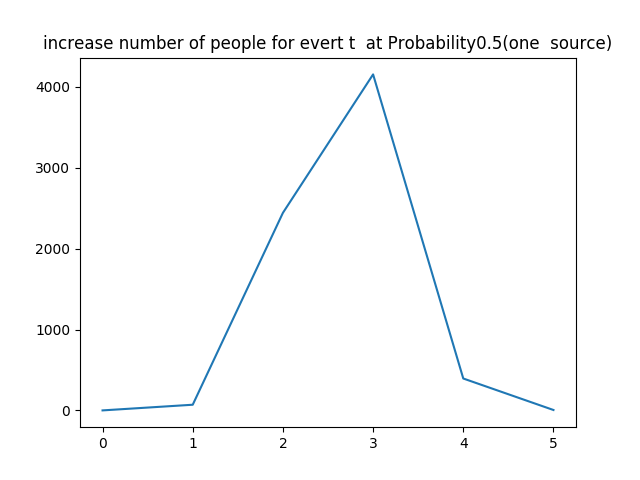
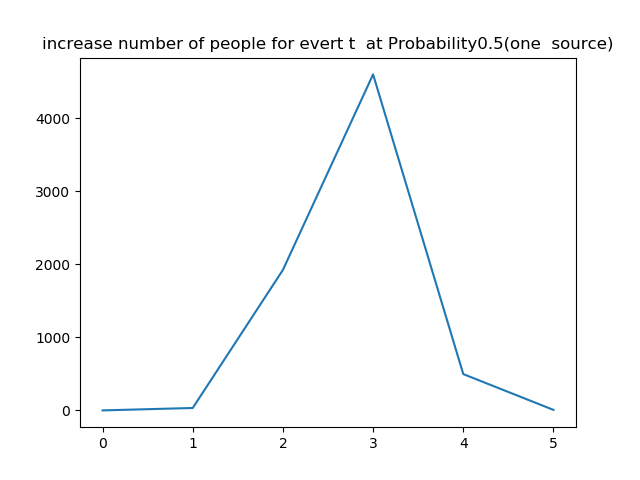
tu

diff --git a/jarden_center/main_code/single-multiple-source/change_world/Conditional_experiment/Propagation_subgraph/many_methods/Use_uninfected_node.py b/jarden_center/main_code/single-multiple-source/change_world/Conditional_experiment/Propagation_subgraph/many_methods/Use_uninfected_node.py
@@ -24,14 +24,97 @@ class Satisfaction:
     def __init__(self):
         pass
 
+    import copy
+
+    '''
+    用队列重写SI传播过程，propagation会传播并且还会
+
+    传播方案2：从源点开始往外面传播，按照队列传播形式。每一个时间刻度，每次所有感染的点都试图感染身边的点。而不是一层一层来
+    '''
+
+    def propagation1(self,G, SourceList, number=1):
+
+        progration_node_list =[ ]
+        progration_edge_list = [ ]
+        G_temp = nx.Graph()
+        G_temp = copy.deepcopy(G)
+        '''
+        :param G:
+        :param SourceList:
+        :return:
+        '''
+        queue = set() #每个t向外传播的点
+        layers = set()    #每层新感染点
+        for source in SourceList:
+            G.node[source]['SI'] = 2
+            queue.add(source)
+            # layers.add(source)
+            # progation_number = 0
+        progration_node_list.append([source])
+        propagation_sum_edge_set  = set()
+        propagation_layer_edge_set = set()
+        while 1:
+            layers.clear()
+            propagation_layer_list = []  # 传播的BFS某一层
+            #传播的边某一层
+            propagation_layer_list.extend(list(queue))  # 总是删除第一个。这里不删除
+            propagation_sum_edge_set = propagation_sum_edge_set.union(propagation_layer_edge_set)  #并集
+            propagation_layer_edge_set.clear()
+            queue_temp = copy.deepcopy(queue)
+            print('第几层为' + str(len(propagation_layer_list)))
+            for source in propagation_layer_list:
+                for height in list(G_temp.neighbors(source)):
+                    randnum = random.random()
+                    if randnum < 0.5:
+                        G_temp.node[height]['SI'] = 2
+                        G_temp.add_edge(source, height, isInfect=1)
+                        # 如果被传播，那就将邻接节点放入队列中。
+                        propagation_layer_edge_set.add((source, height))
+                        queue.add(height)
+                        layers.add(height)
+            # print(queue)
+            # print(layers)
+            layers.difference_update(queue_temp)  #移除layers中扎起queue_temp中元素
+            #对这一层的layers进行只能新加的点和边
+            propagation_layer_edge_set.difference_update(propagation_sum_edge_set)
+            progration_node_list.append(list(layers))   #这一层所加的节点，要保证每一层节点不一样。只
+            #记录第一次被感染的时间t
+            progration_edge_list.append(list(propagation_layer_edge_set))
+            propagation_layer_list.clear()
+            # queue_set = list(set(queue))
+            count = 0
+            for nodetemp in list(G.nodes):
+                if G_temp.node[nodetemp]['SI'] == 2:
+                    count = count + 1
+
+            print('被感染点为' + str(count) + '个')
+            # progation_number += 1
+            if count / G_temp.number_of_nodes() > 0.4:
+                print('超过50%节点了，不用传播啦')
+                break
+        # 数据进去图，看看
+
+
+        print('progration_node_list',progration_node_list)
+        print('progration_dege_lsit',progration_edge_list)
+        return G_temp,progration_node_list,progration_edge_list
+
+
+
+
+
+
+
+
+
+
+
+
     #抽取子图的第一种方法
     '''
         首先给所有节点按照它邻接节点的被感染率排序。从邻居节点被感染率大的集合开始，
      分层往下走，如果第一层的节点直接跟第二层的节点都有边相连。就连接起来。一层一层来。
     '''
-
-
-
     def take_subgraph(self,infectG):
         G_temp = nx.Graph()
         subGraph = nx.Graph()
@@ -112,7 +195,9 @@ class Satisfaction:
         '''
 
 
-        
+        #获取传播序列，
+
+
 
 
 
@@ -157,7 +242,6 @@ class Satisfaction:
     '''
     1 获得传播子图后，你的评价标准是是什么？
     当然是和真实的数据进行比对
-    
     '''
     def main(self):
         initG = commons.get_networkByFile('../../../data/3_regular_tree_2000_data.txt')
@@ -171,7 +255,19 @@ class Satisfaction:
         source_list = commons.product_sourceList(max_sub_graph, 1)
         # print('查看两源距离')
         # print('distance',nx.shortest_path_length(max_sub_graph,source=source_list[0],target=source_list[1]))
-        infectG = commons.propagation1(max_sub_graph, source_list)
+        infectG,node_list, edge_list = self.propagation1(max_sub_graph, source_list)
+
+        with open('node_list', 'a') as f:
+            for i in node_list:
+                f.write(str(i) + '\n')
+        with open('edge_list', 'a') as f:
+            for i in edge_list:
+                f.write(str(i) + '\n')
+
+
+
+
+
         subinfectG = self.take_subgraph(infectG)
         self.verification(infectG,subinfectG)
 

diff --git a/jarden_center/main_code/single-multiple-source/eccitsy922/Conditional_satisfaction/source_progation_likeBFS/likeBFS_onesource.py b/jarden_center/main_code/single-multiple-source/eccitsy922/Conditional_satisfaction/source_progation_likeBFS/likeBFS_onesource.py
@@ -220,6 +220,8 @@ class  LikeBFS:
         infectG, progration_number, y_list1 = self.get_paogration(max_sub_graph, source_list)
         # print('progration_number',progration_number)
         # print('len(y_list1)',len(y_list1))
+
+        print('y_list1',y_list1)
         y_list2 = self.get_BFS(max_sub_graph,source_list[0],progration_number)
         print(len(y_list2))
         print(len(y_list1))

diff --git a/jarden_center/main_code/single-multiple-source/change_world/Conditional_experiment/Propagation_subgraph/many_methods/test.py b/jarden_center/main_code/single-multiple-source/change_world/Conditional_experiment/Propagation_subgraph/many_methods/test.py
@@ -82,6 +82,11 @@ plt.show()
 
 
 
+
+
+
+
+
 def plot_graph(porgration_node_list,porgration_edge_list):
     '''
     :param porgration_list:  #只需要传播节点以及边的list就可以了

diff --git a/jarden_center/main_code/single-multiple-source/change_world/Conditional_experiment/Propagation_subgraph/many_methods/testeasf.py b/jarden_center/main_code/single-multiple-source/change_world/Conditional_experiment/Propagation_subgraph/many_methods/testeasf.py
@@ -1,0 +1,4 @@
+name = {'sd', 'd', 's'}
+li = {'s', 'd'}
+name.symmetric_difference_update(li)
+print(name)
